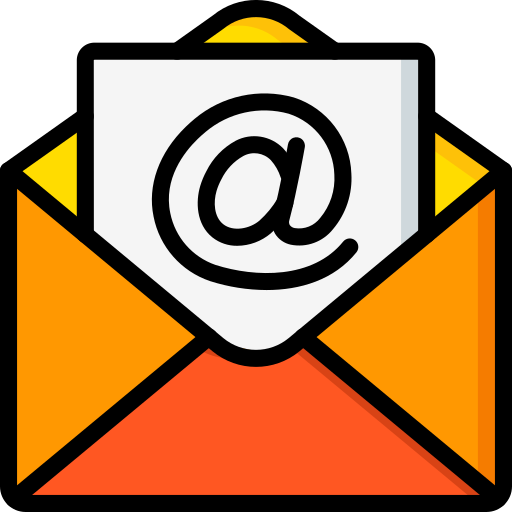
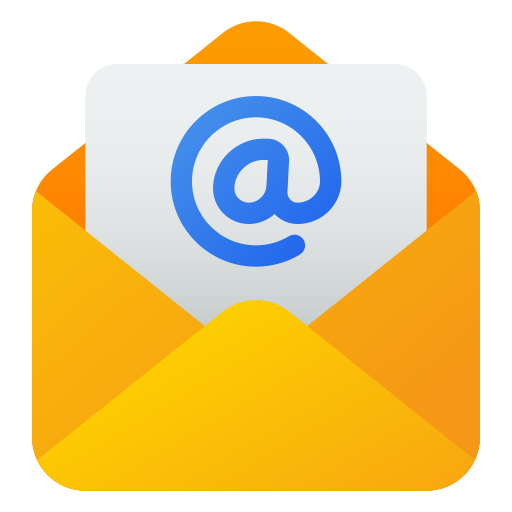
Reorganize featured section and restore NIC Mail card for improved layout

diff --git a/index.html b/index.html
@@ -71,10 +71,6 @@
                     <section class="section">
                     <h2 class="section-title">Featured</h2>
                     <div class="card-grid">
-                        <div class="card" data-url-key="NIC_Mail" onclick="openMapped('NIC_Mail')">
-                            <div class="card-media"><img src="Icon/email.png" class="card-logo" alt="NIC_Mail"></div>
-                            <div class="card-title">NIC Mail</div>
-                        </div>
                         <div class="card" data-url-key="TNRD" onclick="openMapped('TNRD')">
                             <div class="card-media"><img src="Icon/TNRD.png" class="card-logo" alt="TNRD"></div>
                             <div class="card-title">TNRD</div>
@@ -83,25 +79,14 @@
                             <div class="card-media"><img src="Icon/Karuvoolam.png" class="card-logo" alt="Karuvoolam"></div>
                             <div class="card-title">Karuvoolam</div>
                         </div>
+                         <div class="card" data-url-key="NIC_Mail" onclick="openMapped('NIC_Mail')">
+                            <div class="card-media"><img src="Icon/email.png" class="card-logo" alt="NIC_Mail"></div>
+                            <div class="card-title">NIC Mail</div>
+                        </div>
                         <div class="card" data-url-key="WhatsApp" onclick="openMapped('WhatsApp')">
                             <div class="card-media"><img src="Icon/WhatsApp.png" class="card-logo" alt="WhatsApp"></div>
                             <div class="card-title">WhatsApp</div>
                         </div>
-                        <div class="card" data-url-key="IlovePDF" onclick="openMapped('IlovePDF')">
-                            <div class="card-media"><img src="Icon/IlovePDF.png" class="card-logo" alt="I Love PDF"></div>
-                            <div class="card-title">I Love PDF</div>
-                        </div>
-                        <div class="card" data-url-key="PDF.io" onclick="openMapped('PDF.io')">
-                            <div class="card-media"><img src="Icon/PDFio.png" class="card-logo" alt="PDF.io"></div>
-                            <div class="card-title">PDF.io</div>
-                        </div>
-                        <div class="card" data-url-key="11zon" onclick="openMapped('11zon')">
-                            <div class="card-media"><img src="Icon/11zon.png" class="card-logo" alt="11zon"></div>
-                            <div class="card-title">11zon</div>
-                        </div>
-                    </div>
-                </section>
-                    <div class="card-grid">
                         <div class="card" data-url-key="GOs" onclick="openMapped('GOs')">
                             <div class="card-media"><img src="Icon/GO.png" class="card-logo" alt="G.O's"></div>
                             <div class="card-title">G.O's</div>
@@ -110,6 +95,11 @@
                             <div class="card-media"><img src="Icon/ecourts.png" class="card-logo" alt="High Court Case Status"></div>
                             <div class="card-title">HC Case Status</div>
                         </div>
+                    </div>
+                </section>
+                <section class="section">
+                    <h2 class="section-title">Tools</h2>
+                    <div class="card-grid">
                         <div class="card" onclick="showPage('engineers')">
                                <div class="card-media"><img src="Icon/calculator.png" class="card-logo" alt="Engineers Tool"></div>
                             <div class="card-title">Engineers Tool</div>
@@ -236,6 +226,18 @@
                 <section class="section">
                     <h2 class="section-title">Random</h2>
                     <div class="card-grid">
+                        <div class="card" data-url-key="IlovePDF" onclick="openMapped('IlovePDF')">
+                            <div class="card-media"><img src="Icon/IlovePDF.png" class="card-logo" alt="I Love PDF"></div>
+                            <div class="card-title">I Love PDF</div>
+                        </div>
+                        <div class="card" data-url-key="PDF.io" onclick="openMapped('PDF.io')">
+                            <div class="card-media"><img src="Icon/PDFio.png" class="card-logo" alt="PDF.io"></div>
+                            <div class="card-title">PDF.io</div>
+                        </div>
+                        <div class="card" data-url-key="11zon" onclick="openMapped('11zon')">
+                            <div class="card-media"><img src="Icon/11zon.png" class="card-logo" alt="11zon"></div>
+                            <div class="card-title">11zon</div>
+                        </div>
                         <div class="card" data-url-key="Speed Test" onclick="openMapped('Speed Test')">
                                <div class="card-media"><img src="Icon/speedtest.png" class="card-logo" alt="Speed Test"></div>
                             <div class="card-title">Internet Speed Test</div>